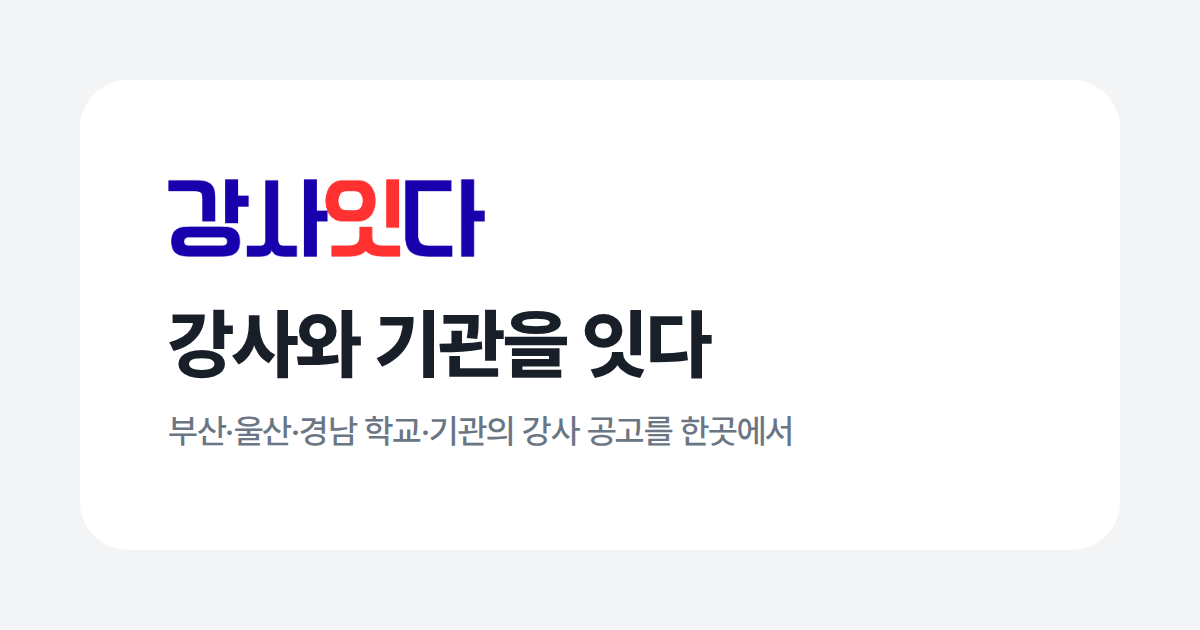
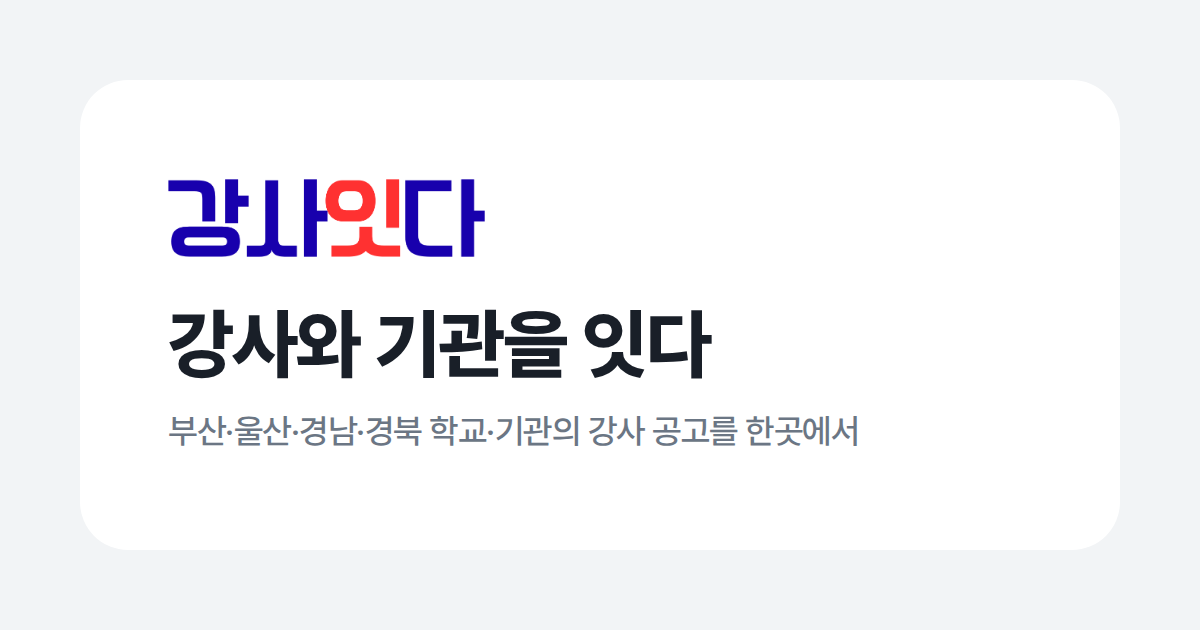
카톡 공유 미리보기 그림에 경북 추가 (부산·울산·경남·경북)
Claude-Session: https://claude.ai/code/session_01PB5gVmo6RBLSmYhtKNv15z

Changed region(s): [[0.2775, 0.6635, 0.74, 0.7238]]

diff --git a/docs/SPEC.md b/docs/SPEC.md
@@ -304,7 +304,7 @@
 ## 4-2. 사이트 아이콘 · 공유 미리보기
 
 - **아이콘**: 로고의 빨간 "잇"을 흰 바탕 가운데에 둔 그림 (`app/icon.png`, `app/apple-icon.png`, `app/favicon.ico`)
-- **공유 미리보기**(카톡·문자·SNS): `app/opengraph-image.png` (로고 + "강사와 기관을 잇다" + 부산·울산·경남 안내. 그림 파일이라 경북은 아직 안 적혀 있음)
+- **공유 미리보기**(카톡·문자·SNS): `app/opengraph-image.png` (로고 + "강사와 기관을 잇다" + 부산·울산·경남·경북 안내)
   - 제목 "강사잇다 — 강사와 기관을 잇다", 설명 "부산·울산·경남·경북 학교·기관의 강사 공고를 한곳에서 확인하세요." (`app/layout.tsx`)
   - 대표 주소는 `app/layout.tsx` 의 `metadataBase` (`https://www.gangsaitda.com`).
 
